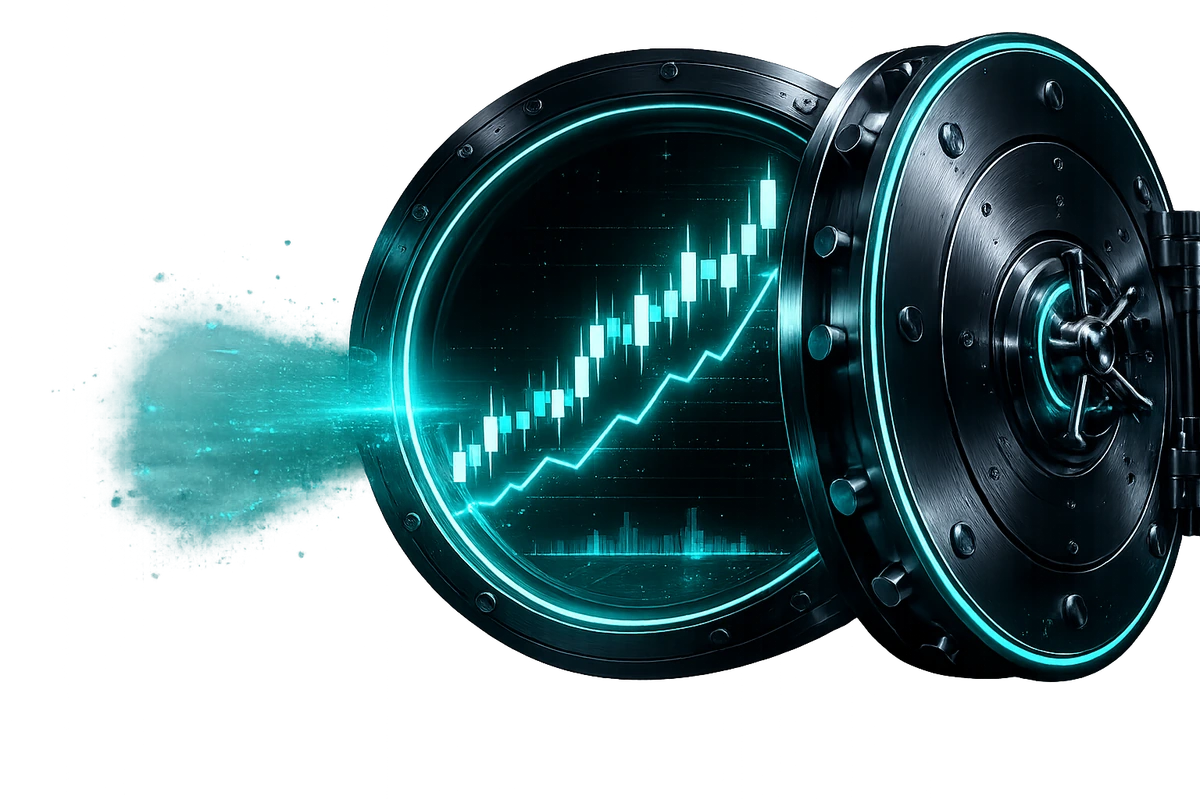
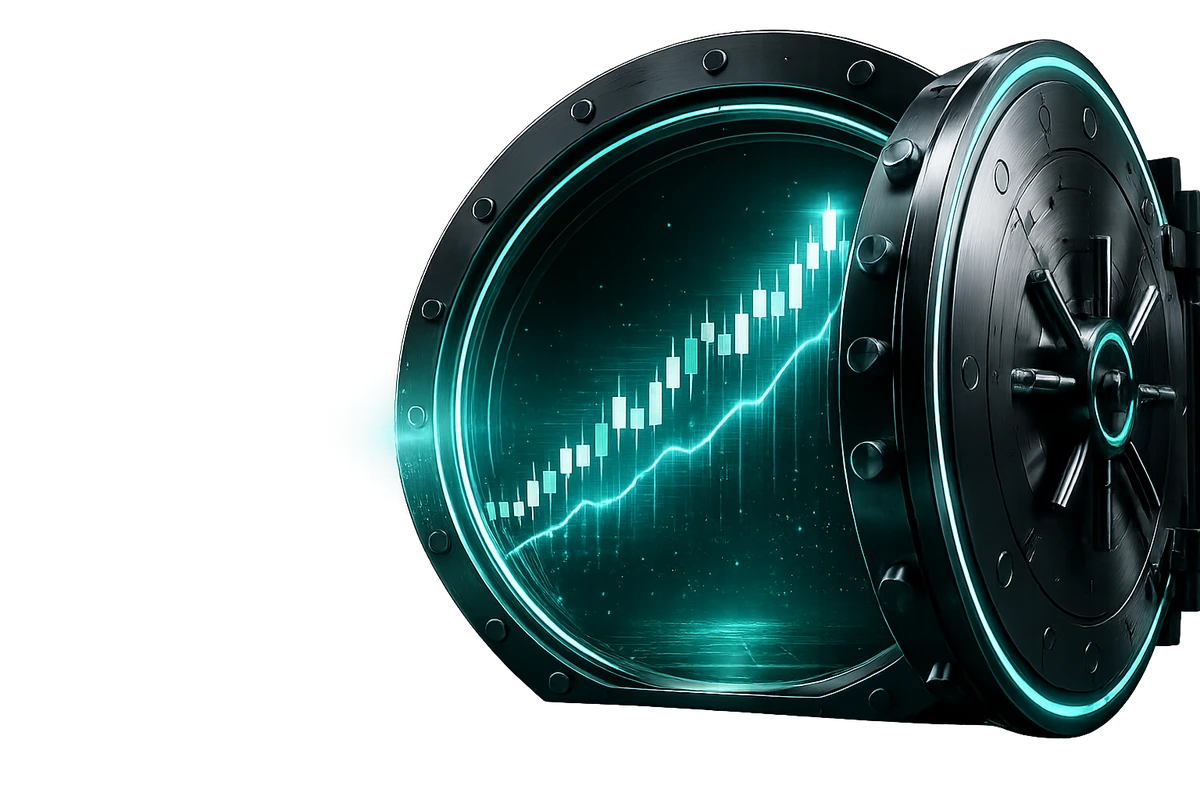
Swap vault: Vault Hero Image v13.png

diff --git a/index.html b/index.html
@@ -166,7 +166,7 @@
 }
 </style>
 <!-- PRELOAD_HERO_START -->
-<link rel="preload" as="image" href="assets/images/vault-hero-nofloor.webp?v=202605240130" fetchpriority="high">
+<link rel="preload" as="image" href="assets/images/vault-hero-nofloor.webp?v=202605240145" fetchpriority="high">
 <!-- PRELOAD_HERO_END -->
 <!-- FONTS_BLOCK_START -->
 <link rel="preload" as="font" type="font/woff2" crossorigin href="assets/fonts/inter-400.woff2">
@@ -759,7 +759,7 @@
     </div>
 
     <div class="media">
-      <img fetchpriority="high" class="vault-hero__img" src="assets/images/vault-hero-nofloor.webp?v=202605240130" alt="TradeFundrr funded-account vault with growing trading chart"  width="1200" height="676" decoding="async" />
+      <img fetchpriority="high" class="vault-hero__img" src="assets/images/vault-hero-nofloor.webp?v=202605240145" alt="TradeFundrr funded-account vault with growing trading chart"  width="1200" height="676" decoding="async" />
     </div>
   </div>
 </section>